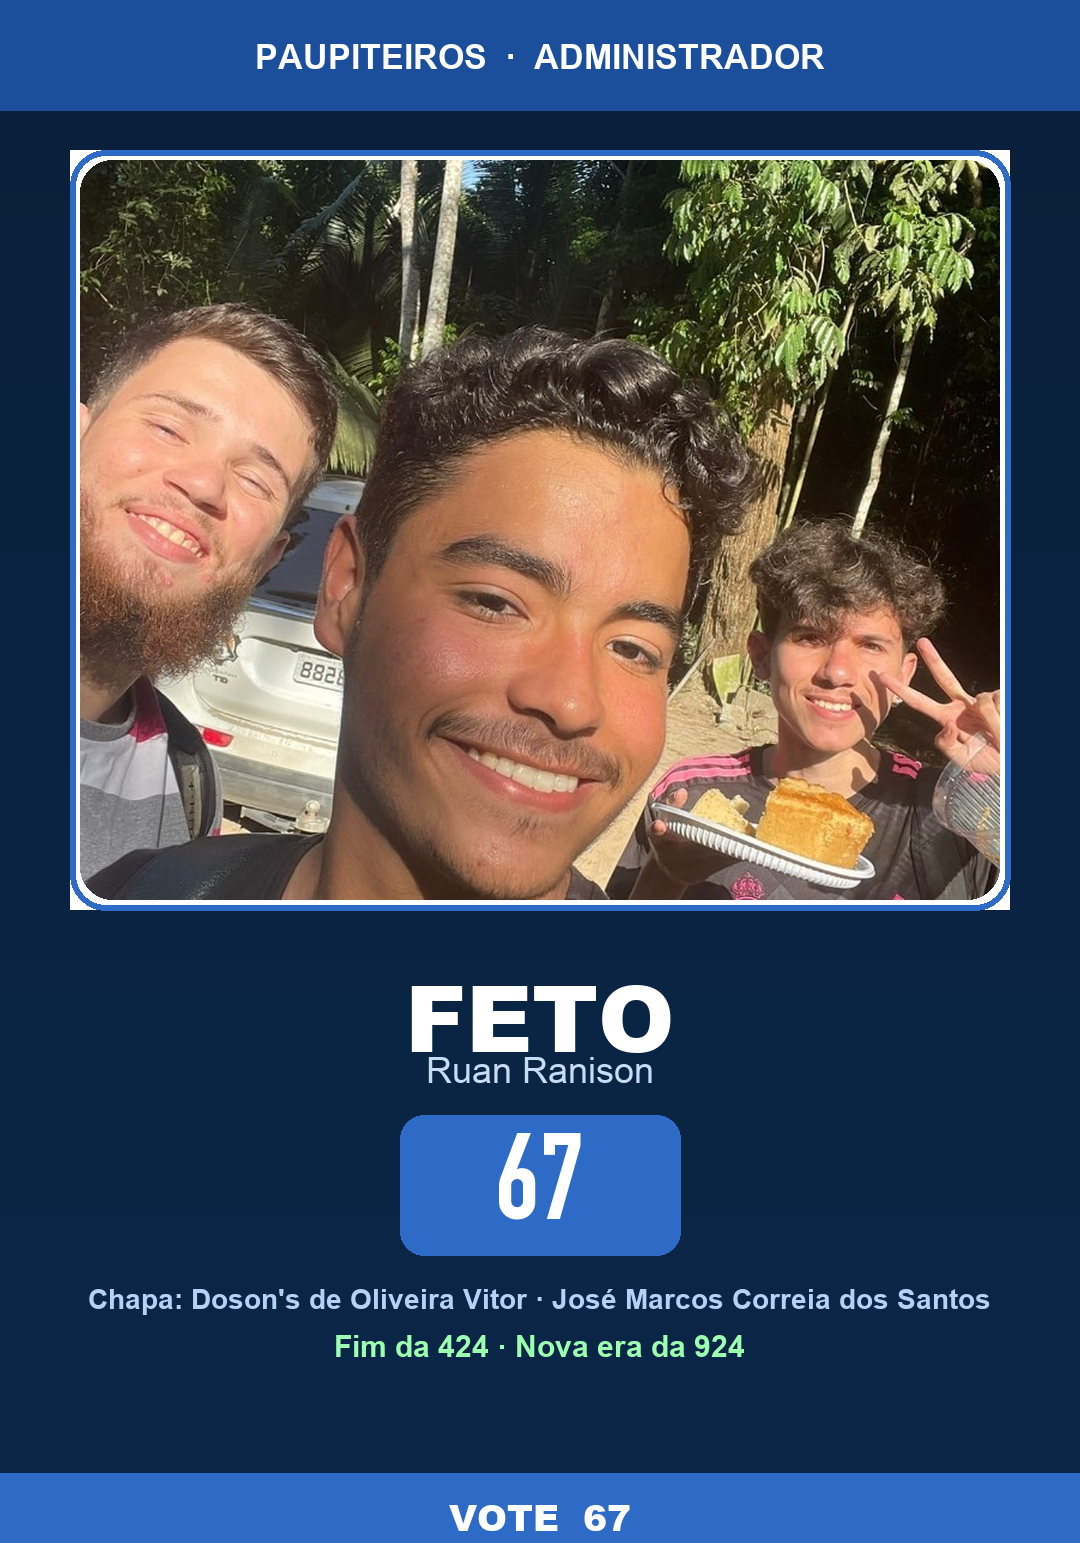
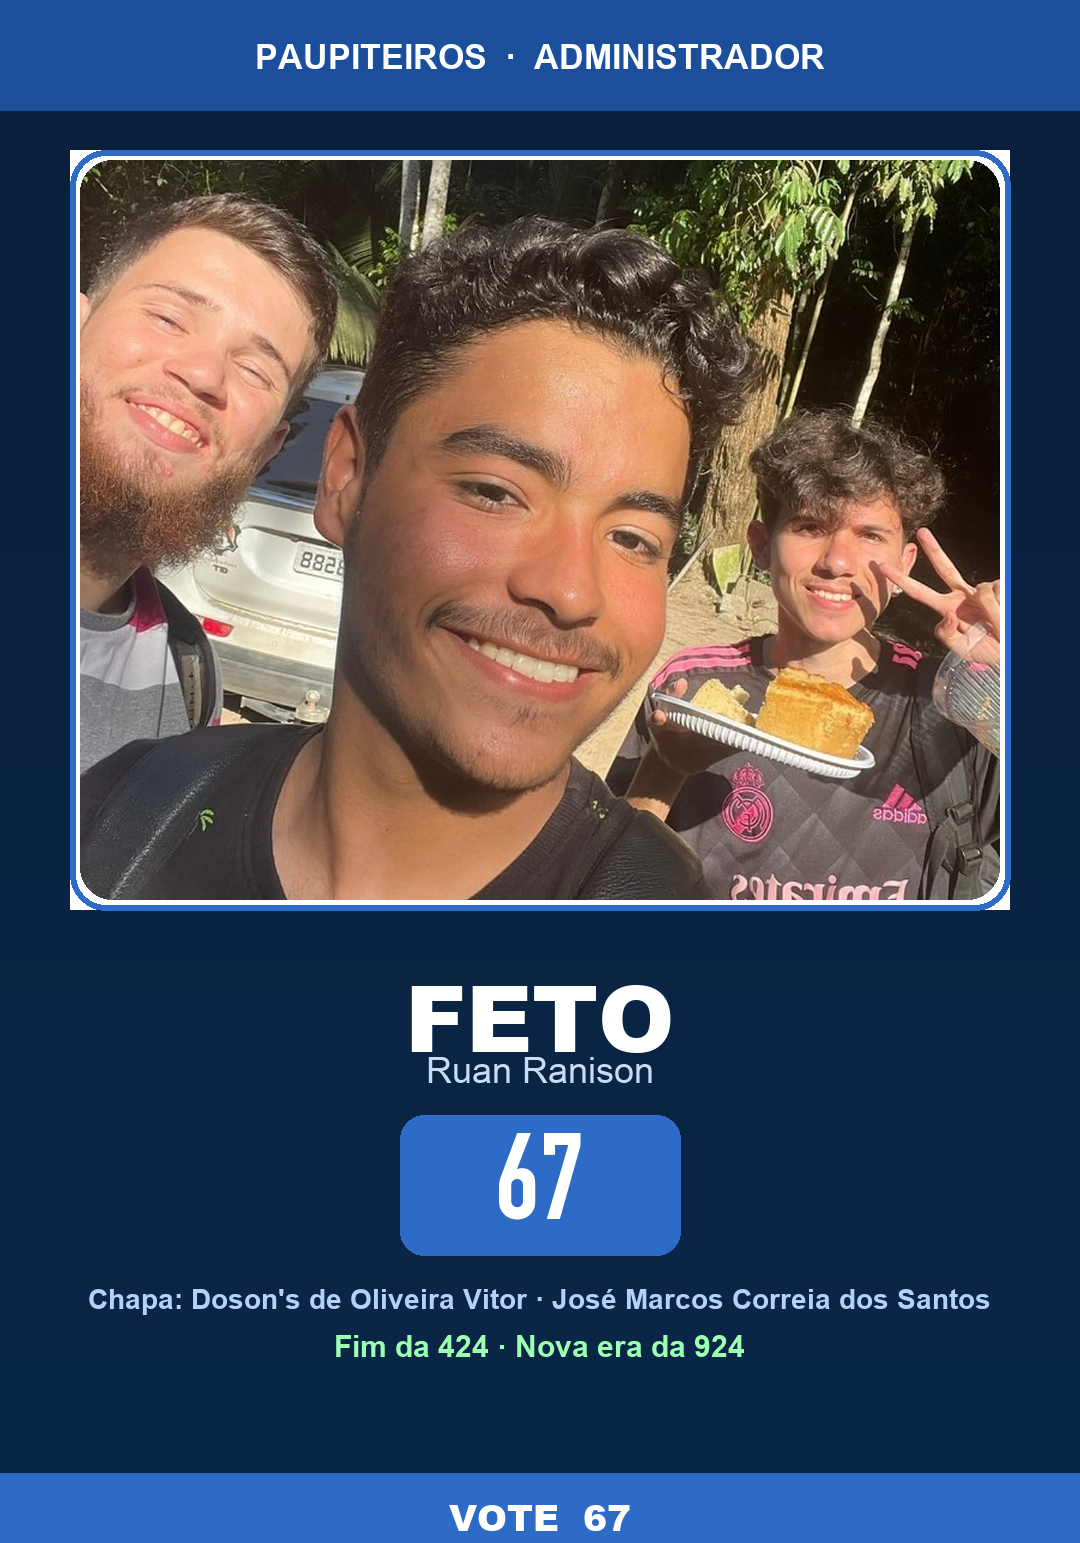
fix: ancorar rostos mais altos no crop dos santinhos

diff --git a/scripts/gerar_santinhos.py b/scripts/gerar_santinhos.py
@@ -50,8 +50,13 @@ def gradient_bg(top=NAVY, bottom=NAVY_MID) -> Image.Image:
     return img
 
 
-def cover_crop(src: Image.Image, box: tuple[int, int, int, int], focus=(0.5, 0.35)) -> Image.Image:
-    """Crop-cover into box with focus (fx, fy) in 0..1 of source."""
+def cover_crop(
+    src: Image.Image,
+    box: tuple[int, int, int, int],
+    focus=(0.5, 0.35),
+    face_in_frame=0.32,
+) -> Image.Image:
+    """Crop-cover into box; place focus point near upper third of the frame."""
     x0, y0, x1, y1 = box
     tw, th = x1 - x0, y1 - y0
     sw, sh = src.size
@@ -60,7 +65,8 @@ def cover_crop(src: Image.Image, box: tuple[int, int, int, int], focus=(0.5, 0.3
     resized = src.resize((nw, nh), Image.Resampling.LANCZOS)
     cx, cy = int(nw * focus[0]), int(nh * focus[1])
     left = max(0, min(cx - tw // 2, nw - tw))
-    top = max(0, min(cy - th // 2, nh - th))
+    # face_in_frame: 0 = top, 0.5 = center — keep face high in the card
+    top = max(0, min(cy - int(th * face_in_frame), nh - th))
     cropped = resized.crop((left, top, left + tw, top + th))
     return cropped
 
@@ -268,7 +274,7 @@ def main():
         antiga,
         OUT / "santinho-foto-antiga-frente.png",
         nova=False,
-        focus=(0.50, 0.52),
+        focus=(0.50, 0.48),
     )
     make_verso(OUT / "santinho-foto-antiga-verso.png", nova=False)
 
@@ -276,7 +282,7 @@ def main():
         nova,
         OUT / "santinho-foto-nova-frente.png",
         nova=True,
-        focus=(0.68, 0.42),
+        focus=(0.68, 0.40),
     )
     make_verso(OUT / "santinho-foto-nova-verso.png", nova=True)
 
